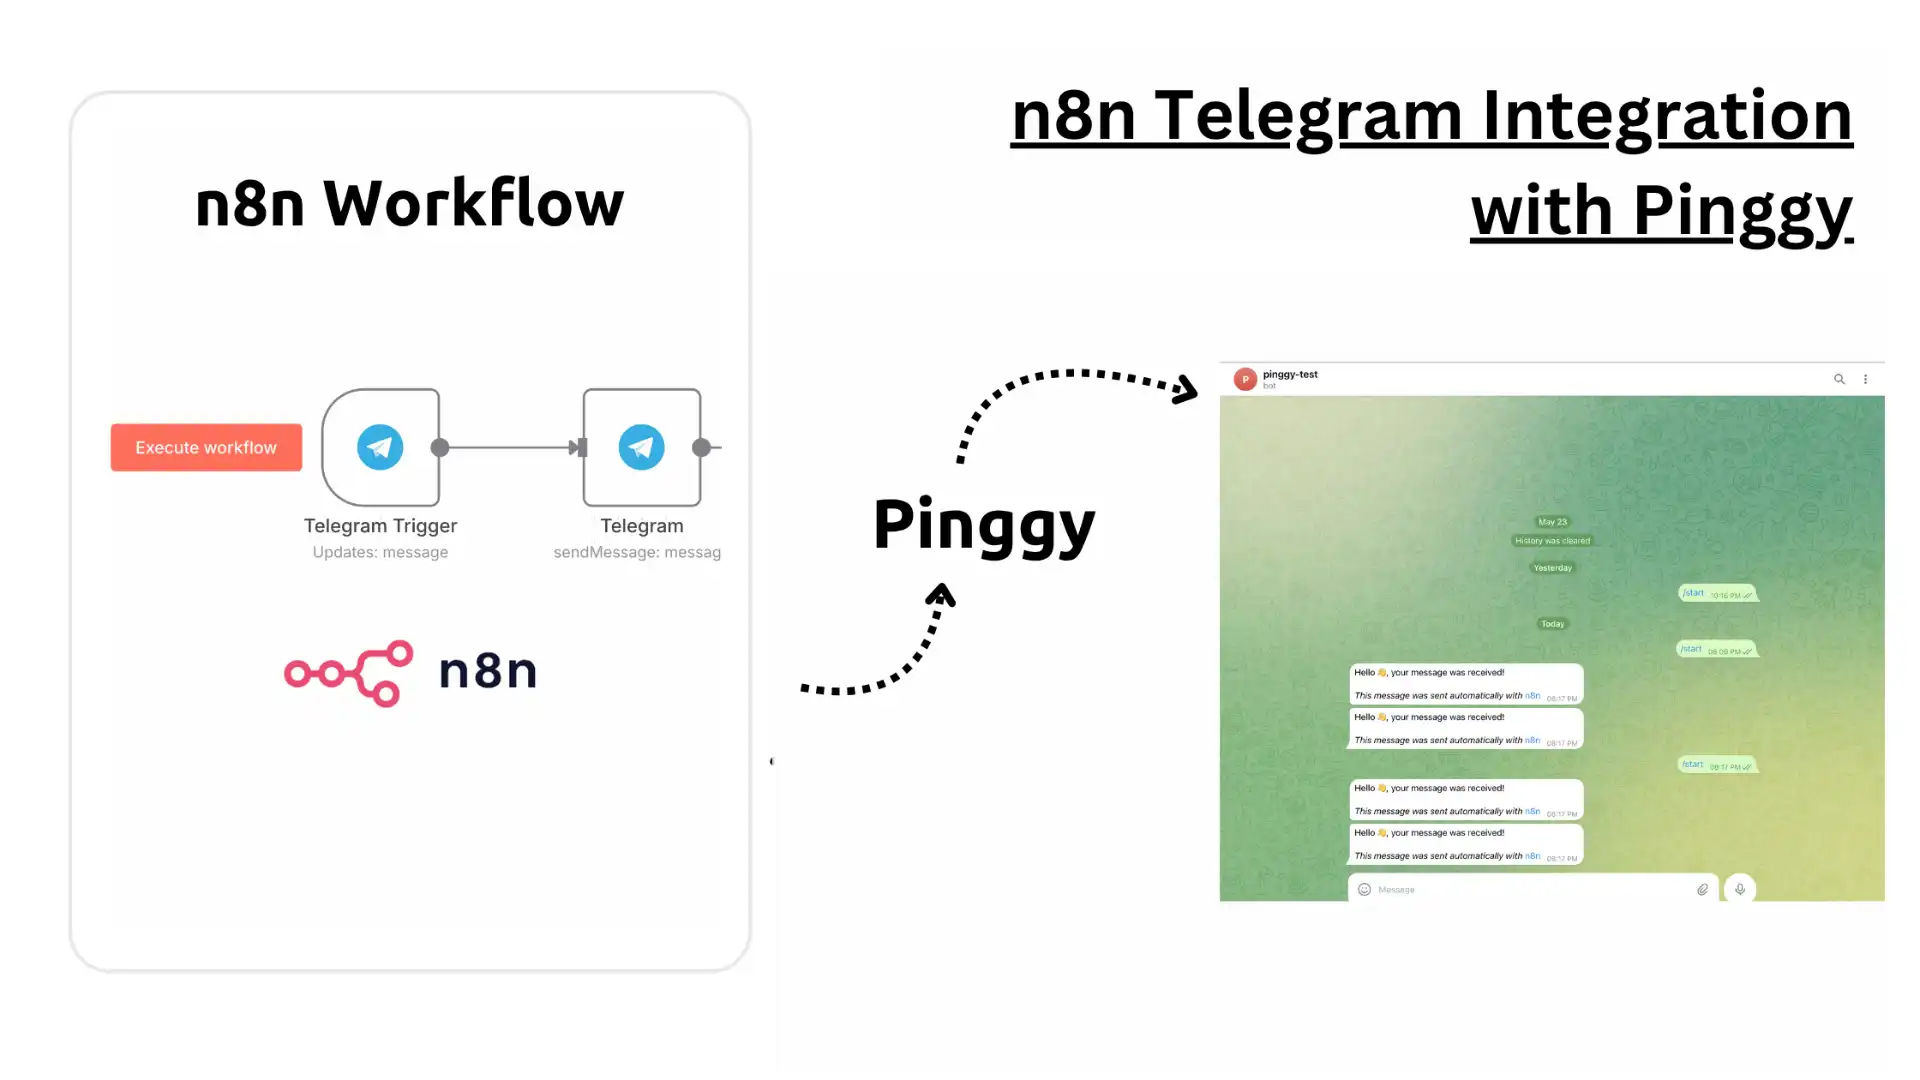
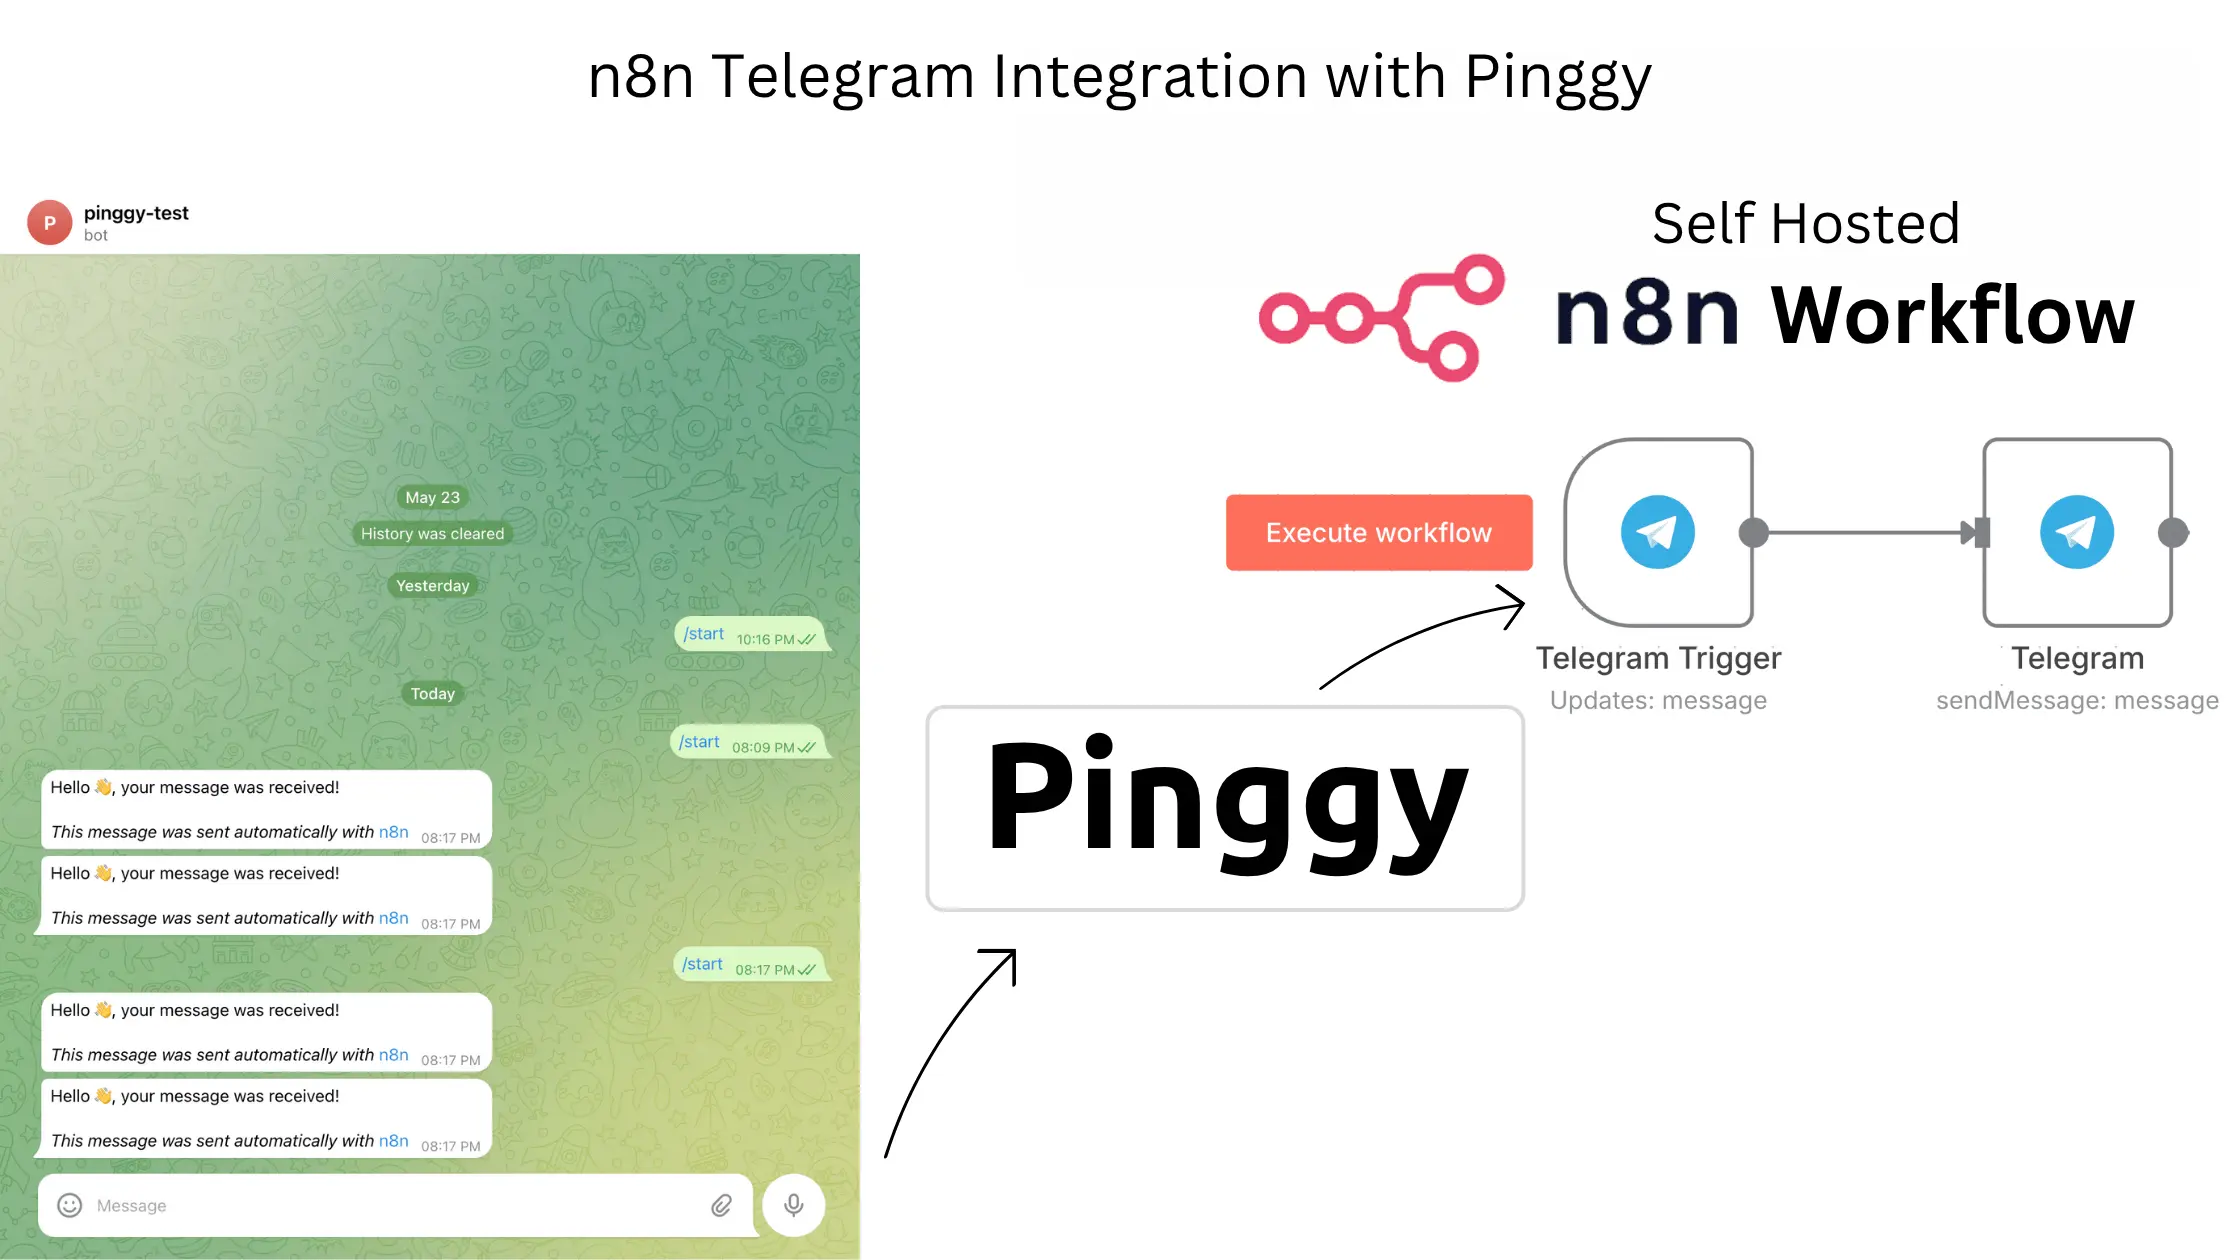
Update n8n blog

diff --git a/content/blog/n8n_telegram_integration_with_pinggy.md b/content/blog/n8n_telegram_integration_with_pinggy.md
@@ -14,9 +14,9 @@ outputs:
 
 {{< image "n8n_telegram_integration_with_pinggy/n8n_workflow_banner.webp" "n8n Telegram Integration with Pinggy" >}}
 
-Building automated workflows that connect Telegram with other services has become essential for modern businesses and developers. {{< link href="https://n8n.io" >}}n8n{{< /link >}} provides a powerful platform for creating these automations, while {{< link href="https://telegram.org" >}}Telegram{{< /link >}} offers an excellent messaging interface for users to interact with your automated systems.
+Building automated workflows that connect Telegram with other services is extremely valuable for modern businesses and developers. {{< link href="https://n8n.io" >}}n8n{{< /link >}} provides a powerful platform for creating these automations, while {{< link href="https://telegram.org" >}}Telegram{{< /link >}} offers an excellent messaging interface for users to interact with your automated systems.
 
-However, when developing locally, connecting Telegram webhooks to your n8n instance can be challenging since Telegram requires HTTPS endpoints. This is where {{< link href="https://pinggy.io" >}}Pinggy{{< /link >}} becomes invaluable, providing instant HTTPS tunnels to your local development environment without any complex setup.
+However, when developing locally, connecting Telegram webhooks to your self-hosted n8n instance can be challenging since Telegram requires HTTPS endpoints. This is where {{< link href="https://pinggy.io" >}}Pinggy{{< /link >}} becomes invaluable, providing instant HTTPS tunnels to your local development environment without any complex setup.
 
 {{% tldr %}}
 
